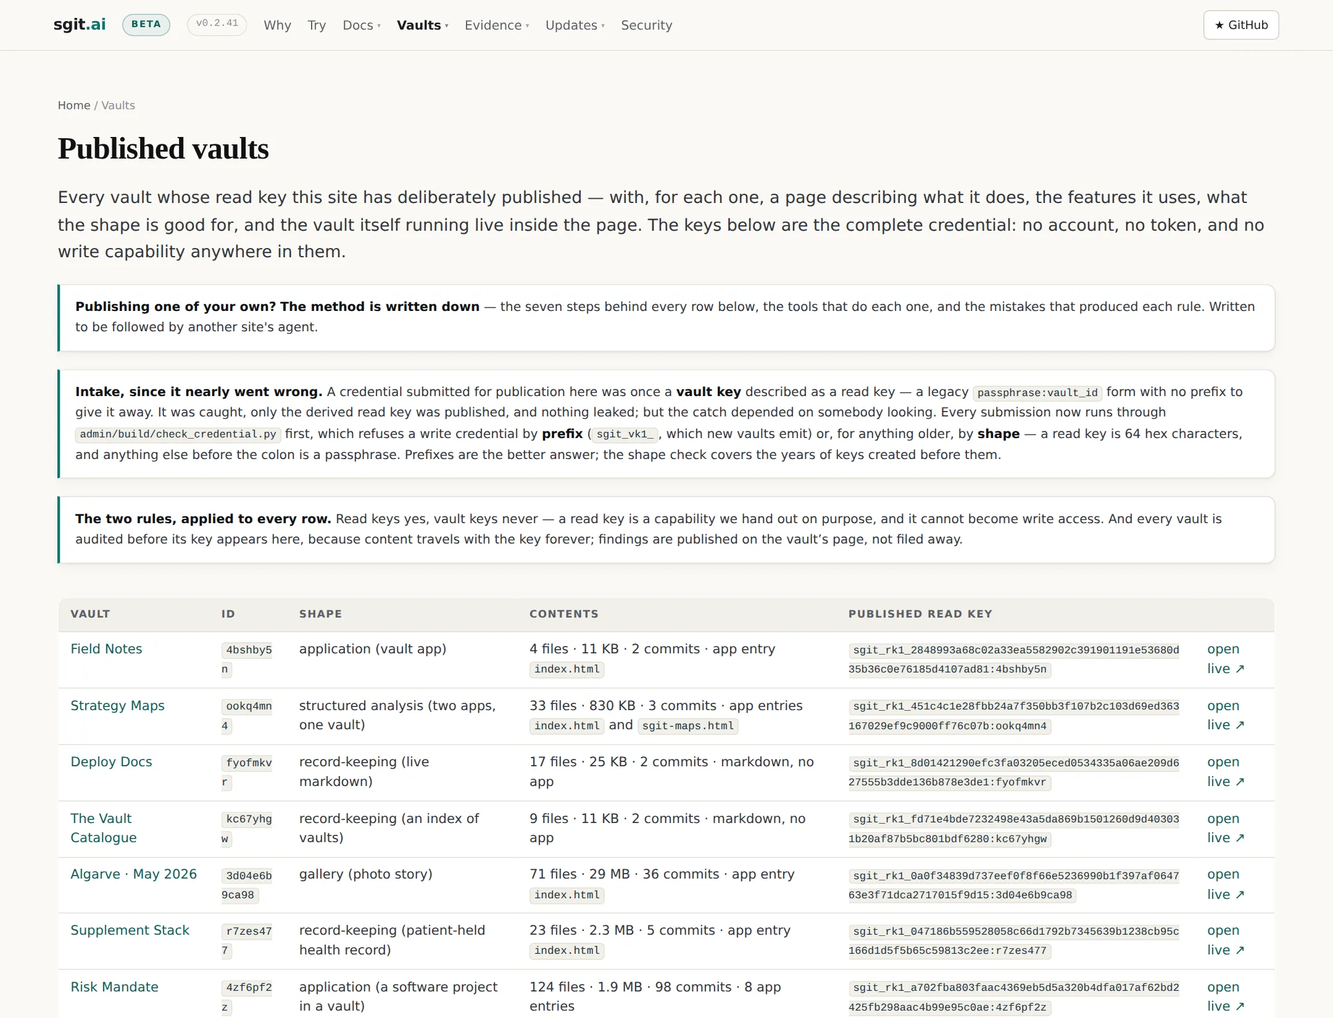
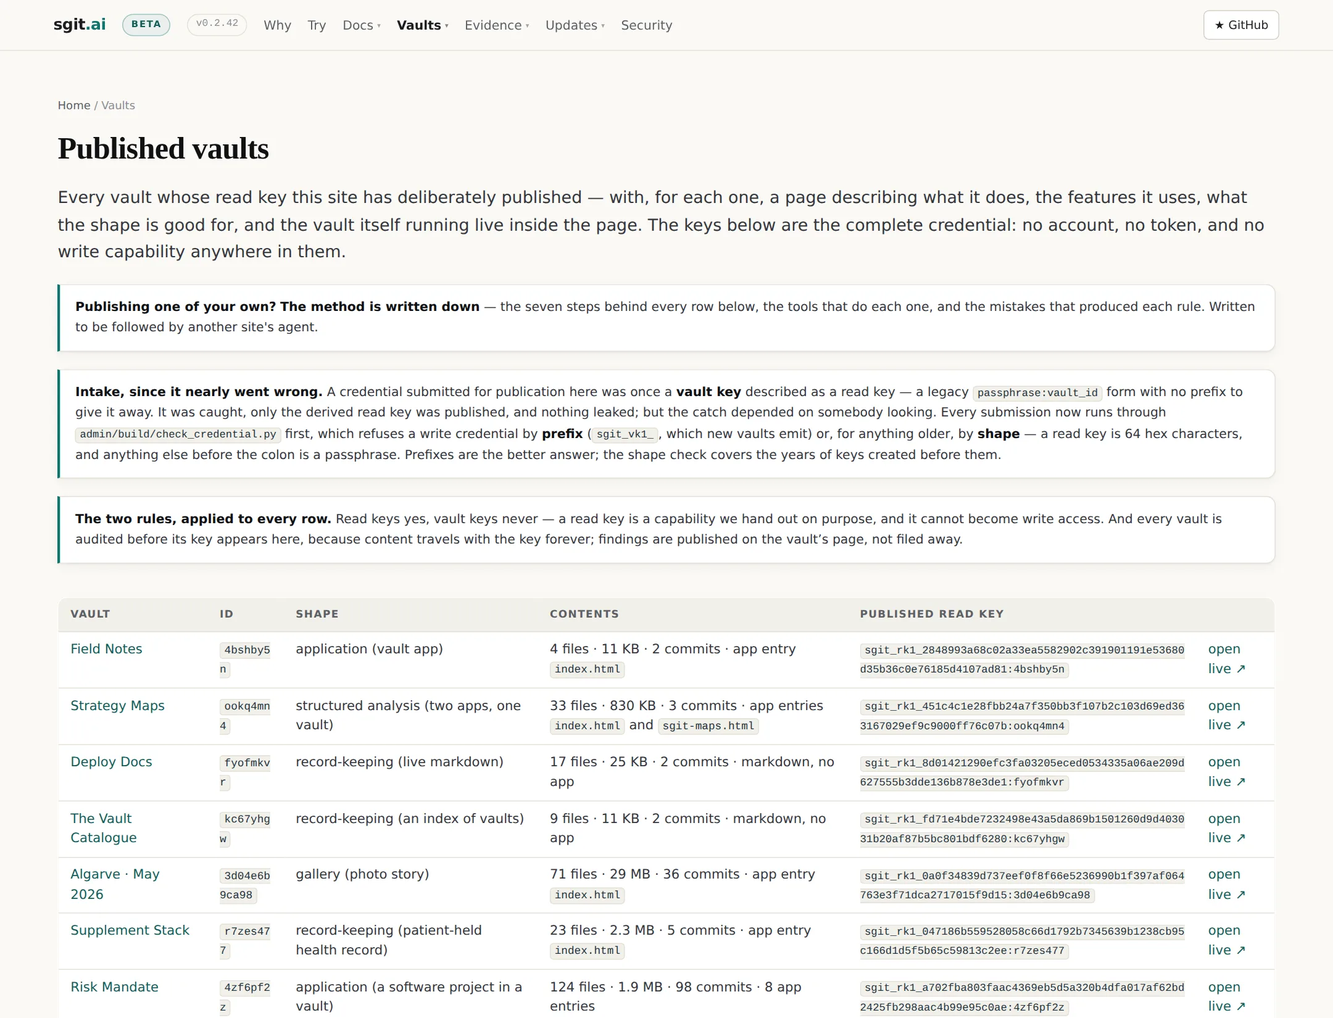
site v0.2.42: an introduction article — what sgit is, with the first CLI screenshots on the site, and all thirteen published read keys re-verified

diff --git a/articles/what-sgit-is.html b/articles/what-sgit-is.html
@@ -4,16 +4,16 @@
 <meta charset="utf-8">
 <meta name="viewport" content="width=device-width, initial-scale=1, viewport-fit=cover">
 <title>Git for things you cannot put on GitHub — sgit.ai</title>
-<meta name="description" content="An introduction to sgit and sgit.ai — what an encrypted vault is, why version control had to be rebuilt to get one, and what eleven published vaults look like when the server storing them cannot read a byte.">
+<meta name="description" content="An introduction to sgit and sgit.ai — what an encrypted vault is, why version control had to be rebuilt to get one, and what thirteen published vaults look like when the server storing them cannot read a byte.">
 <link rel="canonical" href="https://sgit.ai/articles/what-sgit-is.html">
 <meta property="og:type" content="website">
 <meta property="og:site_name" content="sgit.ai">
 <meta property="og:url" content="https://sgit.ai/articles/what-sgit-is.html">
 <meta property="og:title" content="Git for things you cannot put on GitHub — sgit.ai">
-<meta property="og:description" content="An introduction to sgit and sgit.ai — what an encrypted vault is, why version control had to be rebuilt to get one, and what eleven published vaults look like when the server storing them cannot read a byte.">
+<meta property="og:description" content="An introduction to sgit and sgit.ai — what an encrypted vault is, why version control had to be rebuilt to get one, and what thirteen published vaults look like when the server storing them cannot read a byte.">
 <meta name="twitter:card" content="summary">
 <link rel="alternate" type="text/markdown" href="what-sgit-is.md" title="This page as markdown">
-<script type="application/ld+json">{"@context": "https://schema.org", "@type": "TechArticle", "name": "Git for things you cannot put on GitHub — sgit.ai", "headline": "Git for things you cannot put on GitHub — sgit.ai", "description": "An introduction to sgit and sgit.ai — what an encrypted vault is, why version control had to be rebuilt to get one, and what eleven published vaults look like when the server storing them cannot read a byte.", "url": "https://sgit.ai/articles/what-sgit-is.html", "inLanguage": "en", "isPartOf": {"@type": "WebSite", "name": "sgit.ai", "url": "https://sgit.ai"}, "about": {"@type": "SoftwareApplication", "name": "sgit", "sameAs": "https://pypi.org/project/sgit-ai/"}}</script>
+<script type="application/ld+json">{"@context": "https://schema.org", "@type": "TechArticle", "name": "Git for things you cannot put on GitHub — sgit.ai", "headline": "Git for things you cannot put on GitHub — sgit.ai", "description": "An introduction to sgit and sgit.ai — what an encrypted vault is, why version control had to be rebuilt to get one, and what thirteen published vaults look like when the server storing them cannot read a byte.", "url": "https://sgit.ai/articles/what-sgit-is.html", "inLanguage": "en", "isPartOf": {"@type": "WebSite", "name": "sgit.ai", "url": "https://sgit.ai"}, "about": {"@type": "SoftwareApplication", "name": "sgit", "sameAs": "https://pypi.org/project/sgit-ai/"}}</script>
 <style>html{background:#faf9f5}body{margin:0;background:#faf9f5;color:#1c1d21;font-family:ui-sans-serif,system-ui,sans-serif;opacity:0;transition:opacity .25s;animation:sg-reveal 0s linear 1.6s forwards}html.ready body{opacity:1;animation:none}@keyframes sg-reveal{to{opacity:1}}</style><noscript><style>body{opacity:1;animation:none}</style></noscript>
 </head>
 <body>
@@ -71,7 +71,7 @@
   <p class="crumb"><a href="../index.html">Home</a> / <a href="index.html">Articles</a> / Git for things you cannot put on GitHub</p>
   <h1>Git for things you cannot put on GitHub</h1>
   <p class="small dim">2026-08-25 &middot; <a href="../admin/versions.html">v0.2.42</a> &middot; <span class="chip">intro</span><span class="chip">zero-knowledge</span><span class="chip">vaults</span><span class="chip">agents</span></p>
-  <p class="lead">An introduction to sgit and sgit.ai — what an encrypted vault is, why version control had to be rebuilt to get one, and what eleven published vaults look like when the server storing them cannot read a byte.</p>
+  <p class="lead">An introduction to sgit and sgit.ai — what an encrypted vault is, why version control had to be rebuilt to get one, and what thirteen published vaults look like when the server storing them cannot read a byte.</p>
 <p>There is a category of file that has nowhere good to live.</p>
 <p>A risk register with real system names in it. A regulatory analysis you are still arguing about internally. The working memory of an AI agent that has been reading your codebase for a month. Client material under NDA. Anything a lawyer would want to see before it went near a third party.</p>
 <p>All of it wants exactly what git gives you — history, branches, diffs, the ability to hand somebody a link and know what they will see. And all of it is the reason people say <em>"we can't put that in GitHub."</em> So it ends up in a shared drive, an email thread, or a Notion page nobody can diff, and the version history that mattered is gone.</p>
@@ -92,10 +92,10 @@
 <figure class="shot" data-shot="cli-ciphertext.webp" data-dir="images/" data-alt="786 bytes of AES-256-GCM ciphertext. The object&#x27;s name is a SHA-256 of the encrypted bytes."><figcaption>786 bytes of AES-256-GCM ciphertext. The object's name is a SHA-256 of the encrypted bytes.</figcaption></figure>
 <p>That second screenshot is the argument. The object is <b>content-addressed over its ciphertext</b>, which means the host can deduplicate it, cache it for a year, and serve it from a CDN — while remaining unable to tell you what it is. You get the operational benefits of a normal object store without granting it the usual price of admission.</p>
 <p>Underneath, it is a real version control system rather than a sync folder: multi-parent commits, a tree per directory, deterministic refs derived by HMAC, a genuine merge-base computation across all parents, and three-way merge. Branches, diffs and history all work, on content the server cannot interpret.</p>
-<h2>Eleven vaults you can open right now</h2>
+<h2>Thirteen vaults you can open right now</h2>
 <p>The best way to understand a vault is to open one. <b>Every vault on sgit.ai is live</b> — the screenshots are of real vaults, opened with the read keys published beside them.</p>
 <figure class="shot" data-shot="site-vaults.webp" data-dir="images/" data-alt="The published vaults. Each one carries its read key on the page."><figcaption>The published vaults. Each one carries its read key on the page.</figcaption></figure>
-<p>They range from a photo library to Regulation (EU) 2024/1689 parsed from official Formex XML into 1,523 nodes and 1,944 edges. Before writing this I cloned all eleven from their published keys: <b>781 files, no failures.</b></p>
+<p>They range from a photo library to Regulation (EU) 2024/1689 parsed from official Formex XML into 1,523 nodes and 1,944 edges. Before writing this I cloned all thirteen from their published keys: <b>873 files, no failures.</b></p>
 <h2>The part that surprises people</h2>
 <p>A vault can contain an <em>application</em>, not just documents — and that application runs against the vault without ever being handed a credential.</p>
 <figure class="shot" data-shot="permissions.webp" data-dir="../demos/vaults/risk-graph-explorer/images/" data-alt="`&quot;permissions&quot;: {}` — the app requests nothing, and is granted nothing."><figcaption><code>"permissions": {}</code> — the app requests nothing, and is granted nothing.</figcaption></figure>

diff --git a/demos/vaults/health-score/index.html b/demos/vaults/health-score/index.html
@@ -21,7 +21,7 @@
 <nav class="site"><div class="row">
   <a class="brand" href="../../../index.html">sgit<span>.ai</span></a>
   <span class="stage-pill">beta</span>
-  <a class="ver" href="../../../admin/versions.html" title="Site release history">v0.2.41</a>
+  <a class="ver" href="../../../admin/versions.html" title="Site release history">v0.2.42</a>
   <button class="nav-toggle" type="button" aria-expanded="false" aria-label="Menu">Menu</button>
   <div class="nav-items">
   <div class="ni"><a class="nl" href="../../../why/index.html">Why</a></div>
@@ -209,7 +209,7 @@
 </main>
 <script>
 (function () {
-  fetch('../../../assets/shots.js?v=v0.2.41')
+  fetch('../../../assets/shots.js?v=v0.2.42')
     .then(function (r) { if (!r.ok) throw new Error(r.status); return r.text(); })
     .then(function (t) { (0, eval)(t); })
     .catch(function (e) { console.error('[shots] component failed to load:', e); });
@@ -221,7 +221,7 @@
     <div class="brandline">sgit<span>.ai</span></div>
     <p>sgit is git for encrypted vaults — clone, commit, branch and merge files that are encrypted with AES-256-GCM before they leave your machine. Open source, Apache-2.0, in beta and powering production workflows.</p>
     <p class="vaultnote">🔒 This site is itself served from an encrypted SG/Send vault — the page you are reading was decrypted in your browser. The medium is the message.</p>
-    <p class="verline">site <a href="../../../admin/versions.html">v0.2.41</a> · <a href="../../../admin/index.html">engineering</a> · <a href="index.md" title="The same page as plain markdown — for agents, and for reading without the styling">this page as markdown</a></p>
+    <p class="verline">site <a href="../../../admin/versions.html">v0.2.42</a> · <a href="../../../admin/index.html">engineering</a> · <a href="index.md" title="The same page as plain markdown — for agents, and for reading without the styling">this page as markdown</a></p>
   </div>
   <div>
     <h4>Docs</h4>
@@ -260,7 +260,7 @@
 </div></footer>
 
 <script>
-(function(){var R=document.documentElement.getAttribute('data-root')||'';var V='?v=' + 'v0.2.41';var C=[R,'','../','/'].filter(function(v,i,a){return a.indexOf(v)===i});
+(function(){var R=document.documentElement.getAttribute('data-root')||'';var V='?v=' + 'v0.2.42';var C=[R,'','../','/'].filter(function(v,i,a){return a.indexOf(v)===i});
 function wait(ms){return new Promise(function(res){var t=Date.now();(function p(){if(window.sg)return res(window.sg);if(Date.now()-t>ms)return res(null);setTimeout(p,60)})()})}
 function grab(sg,p){return new Promise(function(res){(async function(){if(sg&&sg.vfs&&sg.vfs.readText){try{var t=await sg.vfs.readText(p);if(t)return res(t)}catch(e){}}try{var r=await fetch(p+V);if(r.ok)return res(await r.text())}catch(e){}res(null)})()})}
 async function css(sg){for(var i=0;i<C.length;i++){var p=C[i]+'assets/site.css';if(sg&&sg.loadCss){try{await sg.loadCss(p);return}catch(e){}}var t=await grab(sg,p);if(t){var s=document.createElement('style');s.textContent=t;document.head.appendChild(s);return}}}

diff --git a/demos/vaults/vault-app-pocs/index.html b/demos/vaults/vault-app-pocs/index.html
@@ -21,7 +21,7 @@
 <nav class="site"><div class="row">
   <a class="brand" href="../../../index.html">sgit<span>.ai</span></a>
   <span class="stage-pill">beta</span>
-  <a class="ver" href="../../../admin/versions.html" title="Site release history">v0.2.41</a>
+  <a class="ver" href="../../../admin/versions.html" title="Site release history">v0.2.42</a>
   <button class="nav-toggle" type="button" aria-expanded="false" aria-label="Menu">Menu</button>
   <div class="nav-items">
   <div class="ni"><a class="nl" href="../../../why/index.html">Why</a></div>
@@ -255,7 +255,7 @@
 </main>
 <script>
 (function () {
-  fetch('../../../assets/shots.js?v=v0.2.41')
+  fetch('../../../assets/shots.js?v=v0.2.42')
     .then(function (r) { if (!r.ok) throw new Error(r.status); return r.text(); })
     .then(function (t) { (0, eval)(t); })
     .catch(function (e) { console.error('[shots] component failed to load:', e); });
@@ -267,7 +267,7 @@
     <div class="brandline">sgit<span>.ai</span></div>
     <p>sgit is git for encrypted vaults — clone, commit, branch and merge files that are encrypted with AES-256-GCM before they leave your machine. Open source, Apache-2.0, in beta and powering production workflows.</p>
     <p class="vaultnote">🔒 This site is itself served from an encrypted SG/Send vault — the page you are reading was decrypted in your browser. The medium is the message.</p>
-    <p class="verline">site <a href="../../../admin/versions.html">v0.2.41</a> · <a href="../../../admin/index.html">engineering</a> · <a href="index.md" title="The same page as plain markdown — for agents, and for reading without the styling">this page as markdown</a></p>
+    <p class="verline">site <a href="../../../admin/versions.html">v0.2.42</a> · <a href="../../../admin/index.html">engineering</a> · <a href="index.md" title="The same page as plain markdown — for agents, and for reading without the styling">this page as markdown</a></p>
   </div>
   <div>
     <h4>Docs</h4>
@@ -306,7 +306,7 @@
 </div></footer>
 
 <script>
-(function(){var R=document.documentElement.getAttribute('data-root')||'';var V='?v=' + 'v0.2.41';var C=[R,'','../','/'].filter(function(v,i,a){return a.indexOf(v)===i});
+(function(){var R=document.documentElement.getAttribute('data-root')||'';var V='?v=' + 'v0.2.42';var C=[R,'','../','/'].filter(function(v,i,a){return a.indexOf(v)===i});
 function wait(ms){return new Promise(function(res){var t=Date.now();(function p(){if(window.sg)return res(window.sg);if(Date.now()-t>ms)return res(null);setTimeout(p,60)})()})}
 function grab(sg,p){return new Promise(function(res){(async function(){if(sg&&sg.vfs&&sg.vfs.readText){try{var t=await sg.vfs.readText(p);if(t)return res(t)}catch(e){}}try{var r=await fetch(p+V);if(r.ok)return res(await r.text())}catch(e){}res(null)})()})}
 async function css(sg){for(var i=0;i<C.length;i++){var p=C[i]+'assets/site.css';if(sg&&sg.loadCss){try{await sg.loadCss(p);return}catch(e){}}var t=await grab(sg,p);if(t){var s=document.createElement('style');s.textContent=t;document.head.appendChild(s);return}}}

diff --git a/articles/index.html b/articles/index.html
@@ -72,7 +72,7 @@
   <p class="lead">Longer pieces that make an argument across several pages — what a thing means, why it is shaped that way, and what it cost to find out. Shorter, dated notes on individual changes are in <a href="../updates/index.html">updates</a>.</p>
   <div class="note"><b>Two rules keep these from going stale.</b> An article never restates a fact it does not own — it links to the page that does, so when the fact changes the article does not start lying. And an article that makes a testable claim links to the test, the same way <a href="../compare/index.html">the comparison pages</a> do.</div>
   <div class="artlist">
-    <a class="art" href="what-sgit-is.html"><b>Git for things you cannot put on GitHub</b><span class="art-date">2026-08-25</span><span class="art-sum">An introduction to sgit and sgit.ai — what an encrypted vault is, why version control had to be rebuilt to get one, and what eleven published vaults look like when the server storing them cannot read a byte.</span><span class="chips"><span class="chip">intro</span><span class="chip">zero-knowledge</span><span class="chip">vaults</span><span class="chip">agents</span></span></a>
+    <a class="art" href="what-sgit-is.html"><b>Git for things you cannot put on GitHub</b><span class="art-date">2026-08-25</span><span class="art-sum">An introduction to sgit and sgit.ai — what an encrypted vault is, why version control had to be rebuilt to get one, and what thirteen published vaults look like when the server storing them cannot read a byte.</span><span class="chips"><span class="chip">intro</span><span class="chip">zero-knowledge</span><span class="chip">vaults</span><span class="chip">agents</span></span></a>
     <a class="art" href="seven-vaults-one-method.html"><b>Seven vaults, one method</b><span class="art-date">2026-08-19</span><span class="art-sum">Publishing seven encrypted vaults in a fortnight turned an ad-hoc process into a repeatable one. Every rule in it exists because something went wrong first — including three vault keys submitted for publication that would have handed the world write access.</span><span class="chips"><span class="chip">vaults</span><span class="chip">publishing</span><span class="chip">method</span></span></a>
     <a class="art" href="green-does-not-mean-live.html"><b>Green does not mean live</b><span class="art-date">2026-08-17</span><span class="art-sum">Two releases pushed cleanly, reported success, and never reached the site. Every check we had was green, because the failure happened in a place none of them could see. What we changed, and the general rule underneath it.</span><span class="chips"><span class="chip">ci</span><span class="chip">deploy</span><span class="chip">verification</span></span></a>
   </div>

diff --git a/articles/what-sgit-is.md b/articles/what-sgit-is.md
@@ -1,6 +1,6 @@
 # Git for things you cannot put on GitHub — sgit.ai
 
-> An introduction to sgit and sgit.ai — what an encrypted vault is, why version control had to be rebuilt to get one, and what eleven published vaults look like when the server storing them cannot read a byte.
+> An introduction to sgit and sgit.ai — what an encrypted vault is, why version control had to be rebuilt to get one, and what thirteen published vaults look like when the server storing them cannot read a byte.
 
 *Source: <https://sgit.ai/articles/what-sgit-is.html> · site v0.2.42 · this file is generated from the same content as the page, so the two cannot drift. Every page on this site has a `.md` twin; internal links below point at them.*
 
@@ -12,7 +12,7 @@
 
 2026-08-25 · [v0.2.42](../admin/versions.md) · introzero-knowledgevaultsagents
 
-An introduction to sgit and sgit.ai — what an encrypted vault is, why version control had to be rebuilt to get one, and what eleven published vaults look like when the server storing them cannot read a byte.
+An introduction to sgit and sgit.ai — what an encrypted vault is, why version control had to be rebuilt to get one, and what thirteen published vaults look like when the server storing them cannot read a byte.
 
 There is a category of file that has nowhere good to live.
 
@@ -54,13 +54,13 @@ That second screenshot is the argument. The object is **content-addressed over i
 
 Underneath, it is a real version control system rather than a sync folder: multi-parent commits, a tree per directory, deterministic refs derived by HMAC, a genuine merge-base computation across all parents, and three-way merge. Branches, diffs and history all work, on content the server cannot interpret.
 
-## Eleven vaults you can open right now
+## Thirteen vaults you can open right now
 
 The best way to understand a vault is to open one. **Every vault on sgit.ai is live** — the screenshots are of real vaults, opened with the read keys published beside them.
 
 The published vaults. Each one carries its read key on the page.
 
-They range from a photo library to Regulation (EU) 2024/1689 parsed from official Formex XML into 1,523 nodes and 1,944 edges. Before writing this I cloned all eleven from their published keys: **781 files, no failures.**
+They range from a photo library to Regulation (EU) 2024/1689 parsed from official Formex XML into 1,523 nodes and 1,944 edges. Before writing this I cloned all thirteen from their published keys: **873 files, no failures.**
 
 ## The part that surprises people
 

diff --git a/articles/index.md b/articles/index.md
@@ -12,7 +12,7 @@ Longer pieces that make an argument across several pages — what a thing means,
 
 **Two rules keep these from going stale.** An article never restates a fact it does not own — it links to the page that does, so when the fact changes the article does not start lying. And an article that makes a testable claim links to the test, the same way [the comparison pages](../compare/index.md) do.
 
-[**Git for things you cannot put on GitHub**2026-08-25An introduction to sgit and sgit.ai — what an encrypted vault is, why version control had to be rebuilt to get one, and what eleven published vaults look like when the server storing them cannot read a byte.introzero-knowledgevaultsagents](what-sgit-is.md) [**Seven vaults, one method**2026-08-19Publishing seven encrypted vaults in a fortnight turned an ad-hoc process into a repeatable one. Every rule in it exists because something went wrong first — including three vault keys submitted for publication that would have handed the world write access.vaultspublishingmethod](seven-vaults-one-method.md) [**Green does not mean live**2026-08-17Two releases pushed cleanly, reported success, and never reached the site. Every check we had was green, because the failure happened in a place none of them could see. What we changed, and the general rule underneath it.cideployverification](green-does-not-mean-live.md)
+[**Git for things you cannot put on GitHub**2026-08-25An introduction to sgit and sgit.ai — what an encrypted vault is, why version control had to be rebuilt to get one, and what thirteen published vaults look like when the server storing them cannot read a byte.introzero-knowledgevaultsagents](what-sgit-is.md) [**Seven vaults, one method**2026-08-19Publishing seven encrypted vaults in a fortnight turned an ad-hoc process into a repeatable one. Every rule in it exists because something went wrong first — including three vault keys submitted for publication that would have handed the world write access.vaultspublishingmethod](seven-vaults-one-method.md) [**Green does not mean live**2026-08-17Two releases pushed cleanly, reported success, and never reached the site. Every check we had was green, because the failure happened in a place none of them could see. What we changed, and the general rule underneath it.cideployverification](green-does-not-mean-live.md)
 
 
 ---

diff --git a/admin/content/articles/what-sgit-is.md b/admin/content/articles/what-sgit-is.md
@@ -1,7 +1,7 @@
 ---
 title: Git for things you cannot put on GitHub
 date: 2026-08-25
-summary: An introduction to sgit and sgit.ai — what an encrypted vault is, why version control had to be rebuilt to get one, and what eleven published vaults look like when the server storing them cannot read a byte.
+summary: An introduction to sgit and sgit.ai — what an encrypted vault is, why version control had to be rebuilt to get one, and what thirteen published vaults look like when the server storing them cannot read a byte.
 version: v0.2.42
 tags: intro, zero-knowledge, vaults, agents
 status: published
@@ -45,13 +45,13 @@ That second screenshot is the argument. The object is **content-addressed over i
 
 Underneath, it is a real version control system rather than a sync folder: multi-parent commits, a tree per directory, deterministic refs derived by HMAC, a genuine merge-base computation across all parents, and three-way merge. Branches, diffs and history all work, on content the server cannot interpret.
 
-## Eleven vaults you can open right now
+## Thirteen vaults you can open right now
 
 The best way to understand a vault is to open one. **Every vault on sgit.ai is live** — the screenshots are of real vaults, opened with the read keys published beside them.
 
 !shot site-vaults.webp | images/ | The published vaults. Each one carries its read key on the page.
 
-They range from a photo library to Regulation (EU) 2024/1689 parsed from official Formex XML into 1,523 nodes and 1,944 edges. Before writing this I cloned all eleven from their published keys: **781 files, no failures.**
+They range from a photo library to Regulation (EU) 2024/1689 parsed from official Formex XML into 1,523 nodes and 1,944 edges. Before writing this I cloned all thirteen from their published keys: **873 files, no failures.**
 
 ## The part that surprises people
 

diff --git a/demos/vaults/health-score/index.md b/demos/vaults/health-score/index.md
@@ -2,7 +2,7 @@
 
 > A complete clinical workflow as a vault: adaptive questionnaire, a versioned scoring framework loaded at runtime, explainability tracing every recommendation to an answer, and a clinician review — published as a sanitised republication after an audit found the original vault carried its own write credential.
 
-*Source: <https://sgit.ai/demos/vaults/health-score/index.html> · site v0.2.41 · this file is generated from the same content as the page, so the two cannot drift. Every page on this site has a `.md` twin; internal links below point at them.*
+*Source: <https://sgit.ai/demos/vaults/health-score/index.html> · site v0.2.42 · this file is generated from the same content as the page, so the two cannot drift. Every page on this site has a `.md` twin; internal links below point at them.*
 
 ---
 

diff --git a/demos/vaults/vault-app-pocs/index.md b/demos/vaults/vault-app-pocs/index.md
@@ -2,7 +2,7 @@
 
 > Nine progressive proof-of-concepts and a four-page demo showing how to load CSS, JavaScript and data inside an encrypted vault — including a fifteen-test harness over the vault filesystem, and the audit that found the original could not be opened by a read key at all.
 
-*Source: <https://sgit.ai/demos/vaults/vault-app-pocs/index.html> · site v0.2.41 · this file is generated from the same content as the page, so the two cannot drift. Every page on this site has a `.md` twin; internal links below point at them.*
+*Source: <https://sgit.ai/demos/vaults/vault-app-pocs/index.html> · site v0.2.42 · this file is generated from the same content as the page, so the two cannot drift. Every page on this site has a `.md` twin; internal links below point at them.*
 
 ---
 
